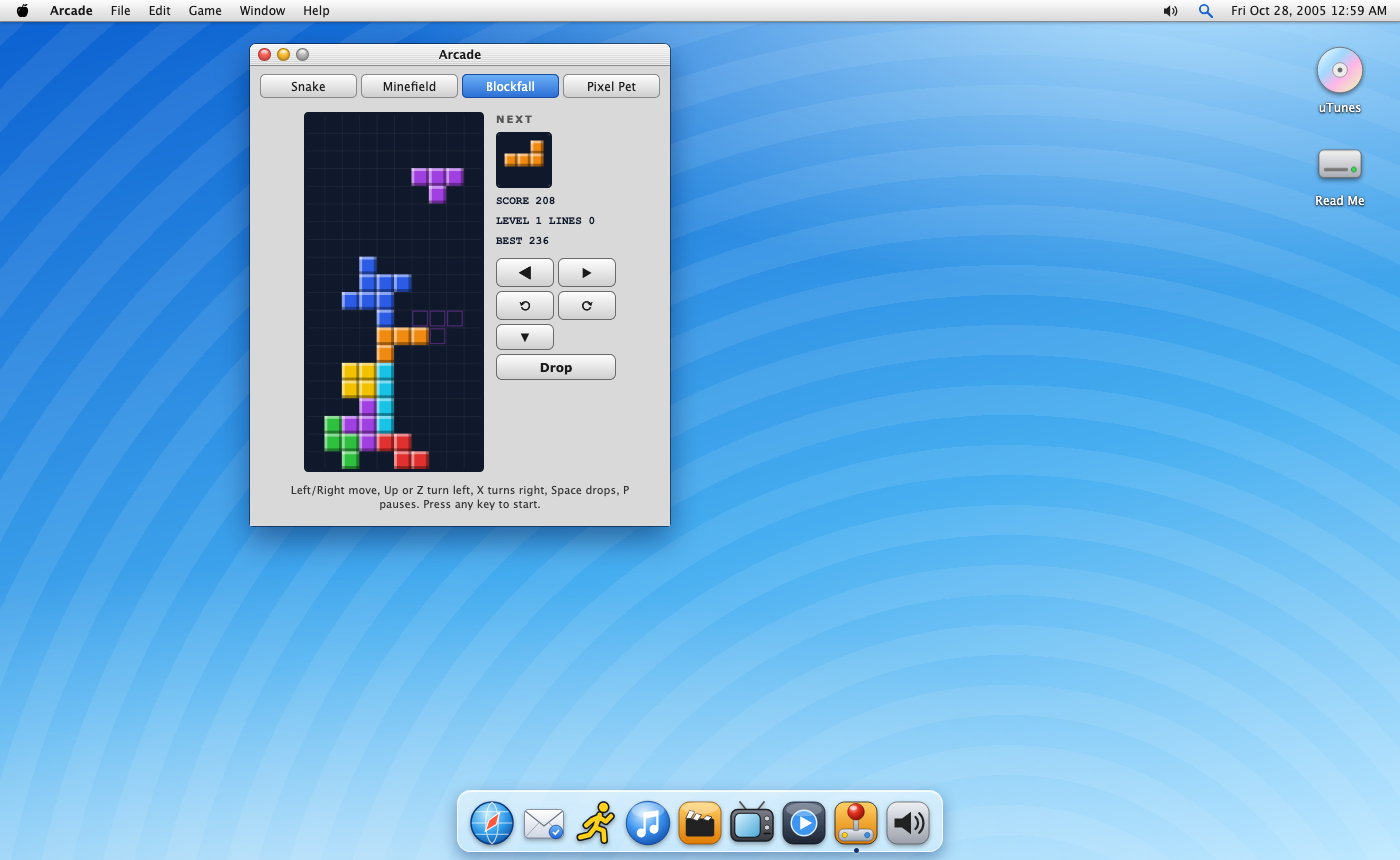
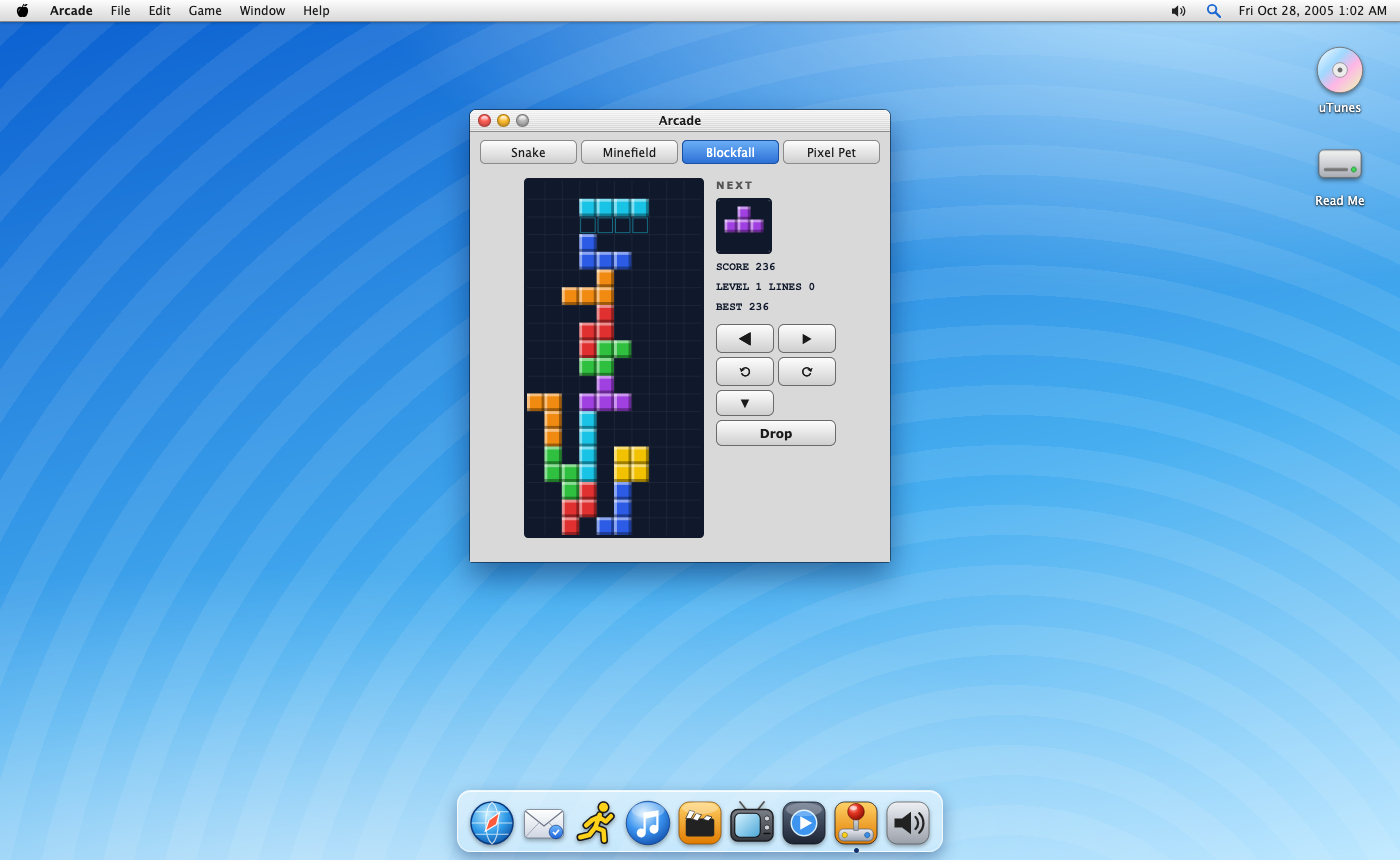
Arcade screenshot: centered window; clear start hint once Blockfall begins

Changed region(s): [[0.1536, 0.0302, 0.645, 0.6953], [0.8293, 0.0, 0.9829, 0.0302]]

diff --git a/index.html b/index.html
@@ -5,7 +5,7 @@
 <meta name="viewport" content="width=device-width, initial-scale=1, viewport-fit=cover">
 <title>Nostalgia Machine</title>
 <meta name="description" content="Nostalgia Machine: a 1996 to 2005 desktop with the real music charts, movies, TV shows and old websites of the era.">
-<link rel="stylesheet" href="css/style.css?v=77">
+<link rel="stylesheet" href="css/style.css?v=78">
 </head>
 <body>
 <div id="desk" data-wall="blue">
@@ -179,7 +179,7 @@
       <div id="slots"></div>
       <h2 style="margin-top:14px">Hear the originals</h2>
       <p>These open YouTube in a new tab.</p>
-      <p><a href="https://www.youtube.com/watch?v=HZShoxgc7a0" target="_blank" rel="noopener">AIM sounds</a> &middot; <a href="https://www.youtube.com/watch?v=hsf9eaq5epI" target="_blank" rel="noopener">AIM message alert</a> &middot; <a href="https://www.youtube.com/watch?v=77MyzOP0vyi0" target="_blank" rel="noopener">56k dial-up handshake</a></p>
+      <p><a href="https://www.youtube.com/watch?v=HZShoxgc7a0" target="_blank" rel="noopener">AIM sounds</a> &middot; <a href="https://www.youtube.com/watch?v=hsf9eaq5epI" target="_blank" rel="noopener">AIM message alert</a> &middot; <a href="https://www.youtube.com/watch?v=78MyzOP0vyi0" target="_blank" rel="noopener">56k dial-up handshake</a></p>
     </div>
   </section>
 
@@ -292,6 +292,6 @@
   <nav id="dock" aria-label="Dock"></nav>
 </div>
 <noscript><p style="position:fixed;inset:40px;color:#fff">This site needs JavaScript.</p></noscript>
-<script type="module" src="js/main.js?v=77"></script>
+<script type="module" src="js/main.js?v=78"></script>
 </body>
 </html>

diff --git a/js/arcade.js b/js/arcade.js
@@ -159,7 +159,7 @@ function blocks({stage, say, store, sfx, active}) {
     clearTimeout(timer); board = Array.from({length: H}, () => Array(W).fill(0)); bag = []; nextK = take(); score = 0; lines = 0; level = 1; alive = true; started = false; paused = false; spawn(); draw();
     say('Left/Right move, Up or Z turn left, X turns right, Space drops, P pauses. Press any key to start.');
   }
-  function go(f) { if (!alive) { reset(); return; } if (!started) { started = true; loop(); } if (!paused) f(); draw(); }
+  function go(f) { if (!alive) { reset(); return; } if (!started) { started = true; say(''); loop(); } if (!paused) f(); draw(); }
   function loop() { clearTimeout(timer); timer = setTimeout(tick, Math.max(90, 750 - (level - 1) * 65)); }
   function tick() { if (!alive) return; if (!paused && active() && !hit(cur.m, cur.x, cur.y + 1)) cur.y++; else if (!paused && active()) lock(); draw(); loop(); }
   function move(d) { if (!hit(cur.m, cur.x + d, cur.y)) cur.x += d; }

diff --git a/js/main.js b/js/main.js
@@ -1,9 +1,9 @@
 // Nostalgia Machine: a 1996 to 2005 desktop with peer-to-peer chat (Trystero over public relays, no server or accounts).
 import {joinRoom, selfId} from 'https://cdn.jsdelivr.net/npm/trystero@0.26.0/+esm';
-import {mountArcade} from './arcade.js?v=77';
-import {mountMail} from './mail.js?v=77';
-import {SAVERS} from './savers.js?v=77';
-import {YEARS, topSongs, guide, about, searchVideos, youtubeSearchUrl, onThisDay} from './data.js?v=77';
+import {mountArcade} from './arcade.js?v=78';
+import {mountMail} from './mail.js?v=78';
+import {SAVERS} from './savers.js?v=78';
+import {YEARS, topSongs, guide, about, searchVideos, youtubeSearchUrl, onThisDay} from './data.js?v=78';
 
 const APP = 'y2k-time-machine-v1';
 const $ = (s, r) => (r || document).querySelector(s);
